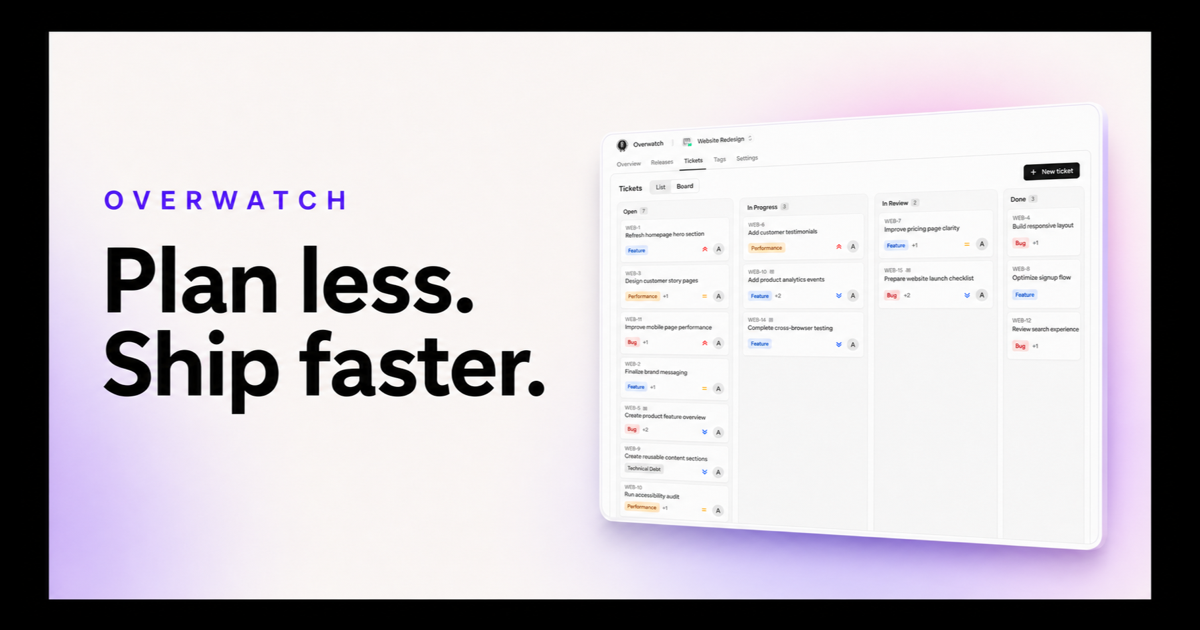
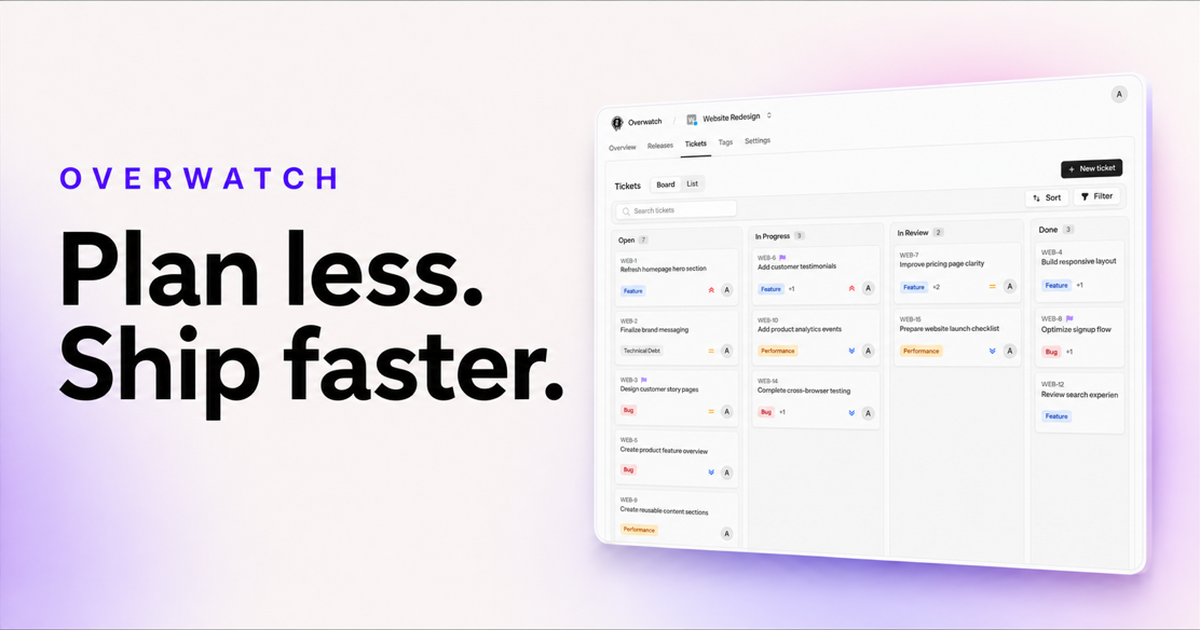
refactor: update product images

diff --git a/resources/views/pages/landing-page.blade.php b/resources/views/pages/landing-page.blade.php
@@ -17,8 +17,8 @@
     <meta name="twitter:card" content="summary_large_image">
     <meta name="twitter:title" content="Overwatch — Plan less. Ship faster.">
     <meta name="twitter:description" content="Lightweight project management for teams that want to ship faster.">
-    <meta name="twitter:image" content="{{ asset('images/overwatch-og.png') }}">
-    <meta name="twitter:image:alt" content="Overwatch project board with the message: Plan less. Ship faster.">
+    <meta name="twitter:image" content="{{ asset('images/overwatch-twitter.png') }}">
+    <meta name="twitter:image:alt" content="Overwatch ticket board showing search, sorting, filters, and drag-and-drop workflows.">
 
     <title>Overwatch — Plan less. Ship faster.</title>
 
@@ -120,16 +120,20 @@
 
                     <div class="max-h-150 overflow-hidden sm:hidden">
                         <img
-                            src="{{ asset('product-mobile.png') }}"
-                            alt="Overwatch product board"
+                            src="{{ asset('product-mobile-v2.png') }}"
+                            alt="Overwatch mobile ticket board with search, sorting, filters, and drag handles"
+                            width="600"
+                            height="1180"
                             class="h-full w-full object-cover object-top"
                         />
                     </div>
 
                     <div class="max-h-200 overflow-hidden hidden sm:block">
                         <img
-                            src="{{ asset('product-desktop.png') }}"
-                            alt="Overwatch product board"
+                            src="{{ asset('product-desktop-v2.png') }}"
+                            alt="Overwatch ticket board with search, sorting, filters, and drag-and-drop workflow columns"
+                            width="3720"
+                            height="2505"
                             class="h-full w-full object-cover object-top"
                         />
                     </div>

diff --git a/resources/views/partials/head.blade.php b/resources/views/partials/head.blade.php
@@ -1,8 +1,30 @@
 <meta charset="utf-8" />
 <meta name="viewport" content="width=device-width, initial-scale=1.0" />
 
+@php
+    $metaTitle = filled($title ?? null) ? $title.' - '.config('app.name', 'Overwatch') : config('app.name', 'Overwatch');
+    $metaDescription = 'Lightweight project management for teams that want to ship faster.';
+@endphp
+
+<meta name="description" content="{{ $metaDescription }}">
+
+<meta property="og:type" content="website">
+<meta property="og:url" content="{{ url()->current() }}">
+<meta property="og:title" content="{{ $metaTitle }}">
+<meta property="og:description" content="{{ $metaDescription }}">
+<meta property="og:image" content="{{ asset('images/overwatch-og.png') }}">
+<meta property="og:image:width" content="1200">
+<meta property="og:image:height" content="630">
+<meta property="og:image:alt" content="Overwatch ticket board with the message: Plan less. Ship faster.">
+
+<meta name="twitter:card" content="summary_large_image">
+<meta name="twitter:title" content="{{ $metaTitle }}">
+<meta name="twitter:description" content="{{ $metaDescription }}">
+<meta name="twitter:image" content="{{ asset('images/overwatch-twitter.png') }}">
+<meta name="twitter:image:alt" content="Overwatch ticket board showing search, sorting, filters, and drag-and-drop workflows.">
+
 <title>
-    {{ filled($title ?? null) ? $title.' - '.config('app.name', 'Laravel') : config('app.name', 'Laravel') }}
+    {{ $metaTitle }}
 </title>
 
 <link rel="icon" href="/favicon.ico" sizes="any">
